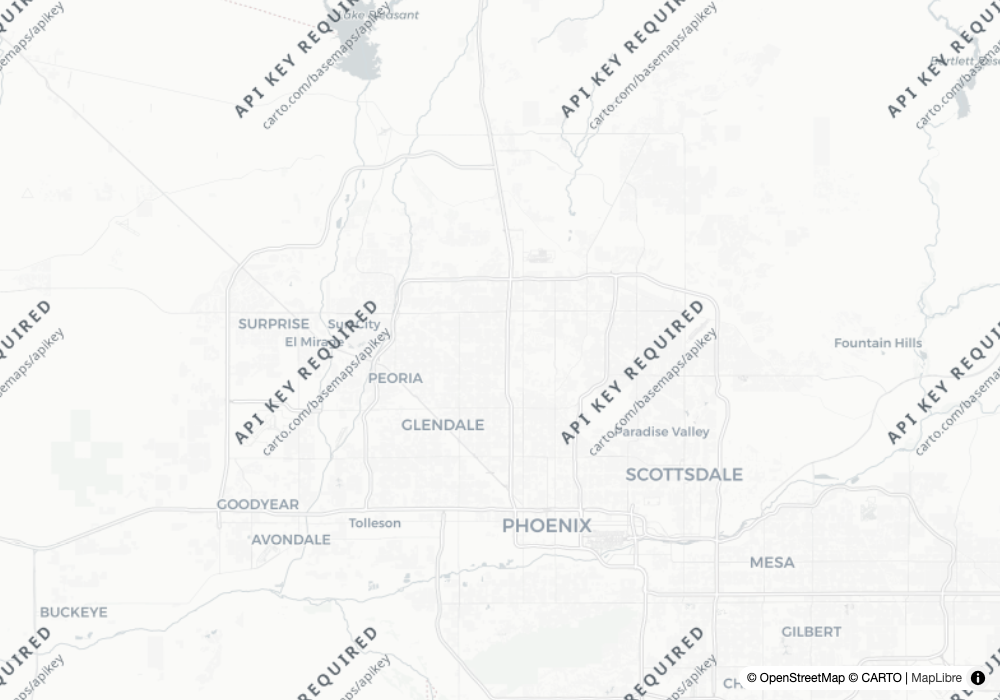
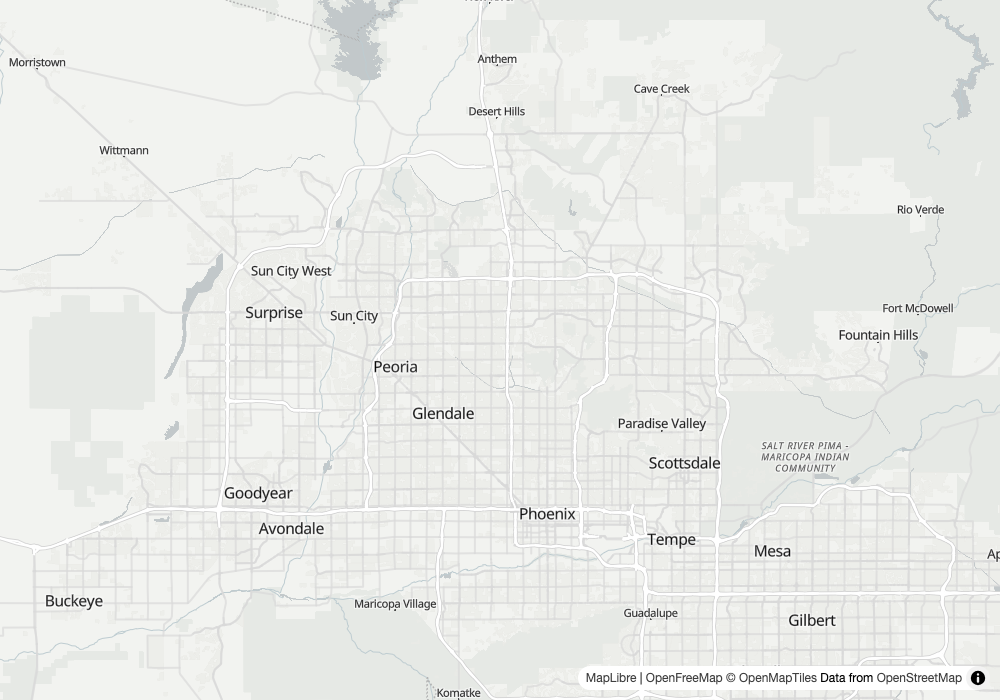
field test No.8: artifacts and stills rebuilt on the key-free basemap
The nineteen artifacts referenced CARTO tiles that now watermark; they reference OpenFreeMap (2D) and OpenStreetMap (3D) instead, and every still is re-shot.

Claude-Session: https://claude.ai/code/session_01Nq2fHRJEhmnNjEufiUrmWm

diff --git a/docs/img/ft8-chelan-coverage-set.html b/docs/img/ft8-chelan-coverage-set.html
@@ -90,10 +90,10 @@
 <script>
 const LAYERS = [{"type": "raster", "name": "2026-08-24 \u00b7 10UFU", "tiles": "https://titiler.xyz/stac/tiles/WebMercatorQuad/{z}/{x}/{y}.png?url=https%3A%2F%2Fearth-search.aws.element84.com%2Fv1%2Fcollections%2Fsentinel-2-l2a%2Fitems%2FS2C_10UFU_20260824_1_L2A&assets=visual", "opacity": 1, "bounds": [-121.665655, 47.731054, -120.164358, 48.673544]}, {"type": "raster", "name": "2026-08-24 \u00b7 10TFT", "tiles": "https://titiler.xyz/stac/tiles/WebMercatorQuad/{z}/{x}/{y}.png?url=https%3A%2F%2Fearth-search.aws.element84.com%2Fv1%2Fcollections%2Fsentinel-2-l2a%2Fitems%2FS2C_10TFT_20260824_0_L2A&assets=visual", "opacity": 1, "bounds": [-121.6881, 46.832638, -120.197167, 47.845912]}, {"type": "raster", "name": "2026-08-24 \u00b7 10UGU", "tiles": "https://titiler.xyz/stac/tiles/WebMercatorQuad/{z}/{x}/{y}.png?url=https%3A%2F%2Fearth-search.aws.element84.com%2Fv1%2Fcollections%2Fsentinel-2-l2a%2Fitems%2FS2C_10UGU_20260824_1_L2A&assets=visual", "opacity": 1, "bounds": [-120.332977, 47.690861, -118.836415, 48.442499]}, {"type": "raster", "name": "2026-08-24 \u00b7 10TGT", "tiles": "https://titiler.xyz/stac/tiles/WebMercatorQuad/{z}/{x}/{y}.png?url=https%3A%2F%2Fearth-search.aws.element84.com%2Fv1%2Fcollections%2Fsentinel-2-l2a%2Fitems%2FS2C_10TGT_20260824_0_L2A&assets=visual", "opacity": 1, "bounds": [-120.377747, 46.803401, -118.864756, 47.822598]}, {"type": "raster", "name": "2026-08-24 \u00b7 10UGU", "tiles": "https://titiler.xyz/stac/tiles/WebMercatorQuad/{z}/{x}/{y}.png?url=https%3A%2F%2Fearth-search.aws.element84.com%2Fv1%2Fcollections%2Fsentinel-2-l2a%2Fitems%2FS2C_10UGU_20260824_0_L2A&assets=visual", "opacity": 1, "bounds": [-120.305306, 47.956173, -118.79173, 48.720918]}];
 const BBOX = [-121.18091, 47.2609433, -119.859708, 48.5509464];
-const BASE_STYLE = () => ({ version: 8, sources: { basemap: { type: "raster",
-    tiles: ["https://basemaps.cartocdn.com/light_all/{z}/{x}/{y}@2x.png"], tileSize: 256,
-    attribution: "&copy; OpenStreetMap &copy; CARTO" } },
-  layers: [{ id: "basemap", type: "raster", source: "basemap" }] });
+// Field test No.8: CARTO's free basemap started serving "API KEY REQUIRED"
+// watermark tiles under every artifact. OpenFreeMap needs no key and its
+// positron style is the same light look; raster layers stack on it unchanged
+const BASE_STYLE = () => "https://tiles.openfreemap.org/styles/positron";
 const MAP_OPTS = { style: BASE_STYLE(), bounds: [[BBOX[0], BBOX[1]], [BBOX[2], BBOX[3]]],
   fitBoundsOptions: { padding: 40 } };
 

diff --git a/docs/img/ft8-chelan-brief-map.html b/docs/img/ft8-chelan-brief-map.html
@@ -90,10 +90,10 @@
 <script>
 const LAYERS = [{"type": "raster", "name": "Sentinel-2 2026-08-24 (0.1% cloud)", "tiles": "https://titiler.xyz/stac/tiles/WebMercatorQuad/{z}/{x}/{y}.png?url=https%3A%2F%2Fearth-search.aws.element84.com%2Fv1%2Fcollections%2Fsentinel-2-l2a%2Fitems%2FS2C_10TFT_20260824_0_L2A&assets=visual", "opacity": 1, "bounds": [-121.6881, 46.832638, -120.197167, 47.845912]}, {"type": "geojson", "name": "Active events (5)", "data": {"type": "FeatureCollection", "features": [{"type": "Feature", "geometry": {"type": "Point", "coordinates": [-121.4353, 48.652417]}, "properties": {"title": "Wildfire Electric, Whatcom, Washington", "description": "Wildfires \u00b7 2026-08-22"}}, {"type": "Feature", "geometry": {"type": "Point", "coordinates": [-121.052783, 47.458917]}, "properties": {"title": "Wildfire GOAT, Kittitas, Washington", "description": "Wildfires \u00b7 2026-08-22"}}, {"type": "Feature", "geometry": {"type": "Point", "coordinates": [-121.0287, 48.549617]}, "properties": {"title": "Wildfire Thunder Creek, Skagit, Washington", "description": "Wildfires \u00b7 2026-08-22"}}, {"type": "Feature", "geometry": {"type": "Point", "coordinates": [-121.255867, 47.4708]}, "properties": {"title": "Wildfire KING, Kittitas, Washington", "description": "Wildfires \u00b7 2026-08-19"}}, {"type": "Feature", "geometry": {"type": "Point", "coordinates": [-120.830667, 48.346667]}, "properties": {"title": "Wildfire SISI, Chelan, Washington", "description": "Wildfires \u00b7 2026-08-14"}}]}, "color": "#d63b3b"}];
 const BBOX = [-121.58091, 46.8609433, -119.45970799999999, 48.9509464];
-const BASE_STYLE = () => ({ version: 8, sources: { basemap: { type: "raster",
-    tiles: ["https://basemaps.cartocdn.com/light_all/{z}/{x}/{y}@2x.png"], tileSize: 256,
-    attribution: "&copy; OpenStreetMap &copy; CARTO" } },
-  layers: [{ id: "basemap", type: "raster", source: "basemap" }] });
+// Field test No.8: CARTO's free basemap started serving "API KEY REQUIRED"
+// watermark tiles under every artifact. OpenFreeMap needs no key and its
+// positron style is the same light look; raster layers stack on it unchanged
+const BASE_STYLE = () => "https://tiles.openfreemap.org/styles/positron";
 const MAP_OPTS = { style: BASE_STYLE(), bounds: [[BBOX[0], BBOX[1]], [BBOX[2], BBOX[3]]],
   fitBoundsOptions: { padding: 40 } };
 

diff --git a/docs/img/ft8-rainier-3d.html b/docs/img/ft8-rainier-3d.html
@@ -121,7 +121,7 @@
 </script>
 
 <script>
-const STYLE = {"version": 8, "sources": {"basemap": {"type": "raster", "tiles": ["https://basemaps.cartocdn.com/light_all/{z}/{x}/{y}@2x.png"], "tileSize": 256, "attribution": "&copy; OpenStreetMap &copy; CARTO"}, "imagery": {"type": "raster", "tiles": ["https://titiler.xyz/stac/tiles/WebMercatorQuad/{z}/{x}/{y}.png?url=https%3A%2F%2Fearth-search.aws.element84.com%2Fv1%2Fcollections%2Fsentinel-2-l2a%2Fitems%2FS2C_10TES_20260824_0_L2A&assets=visual"], "tileSize": 256, "bounds": [-123.00025, 45.956779, -121.557505, 46.9537]}, "dem": {"type": "raster-dem", "tiles": ["https://s3.amazonaws.com/elevation-tiles-prod/terrarium/{z}/{x}/{y}.png"], "tileSize": 256, "encoding": "terrarium", "maxzoom": 15}}, "layers": [{"id": "basemap", "type": "raster", "source": "basemap"}, {"id": "imagery", "type": "raster", "source": "imagery", "paint": {"raster-opacity": 1}}]};
+const STYLE = {"version": 8, "sources": {"basemap": {"type": "raster", "tiles": ["https://tile.openstreetmap.org/{z}/{x}/{y}.png"], "tileSize": 256, "attribution": "&copy; OpenStreetMap contributors"}, "imagery": {"type": "raster", "tiles": ["https://titiler.xyz/stac/tiles/WebMercatorQuad/{z}/{x}/{y}.png?url=https%3A%2F%2Fearth-search.aws.element84.com%2Fv1%2Fcollections%2Fsentinel-2-l2a%2Fitems%2FS2C_10TES_20260824_0_L2A&assets=visual"], "tileSize": 256, "bounds": [-123.00025, 45.956779, -121.557505, 46.9537]}, "dem": {"type": "raster-dem", "tiles": ["https://s3.amazonaws.com/elevation-tiles-prod/terrarium/{z}/{x}/{y}.png"], "tileSize": 256, "encoding": "terrarium", "maxzoom": 15}}, "layers": [{"id": "basemap", "type": "raster", "source": "basemap"}, {"id": "imagery", "type": "raster", "source": "imagery", "paint": {"raster-opacity": 1}}]};
 const BBOX = [-121.9075158, 46.7022029, -121.60751579999999, 47.0022029];
 const CENTER = [(BBOX[0] + BBOX[2]) / 2, (BBOX[1] + BBOX[3]) / 2];
 const BOUNDS = [[BBOX[0], BBOX[1]], [BBOX[2], BBOX[3]]];

diff --git a/docs/img/ft8-caldor-severity.html b/docs/img/ft8-caldor-severity.html
@@ -90,10 +90,10 @@
 <script>
 const LAYERS = [{"type": "raster", "name": "2026-08-31 \u00b7 10SGH", "tiles": "https://titiler.xyz/stac/tiles/WebMercatorQuad/{z}/{x}/{y}.png?url=https%3A%2F%2Fearth-search.aws.element84.com%2Fv1%2Fcollections%2Fsentinel-2-l2a%2Fitems%2FS2C_10SGH_20260831_0_L2A&assets=visual", "opacity": 1, "bounds": [-120.727597, 37.824548, -119.760991, 38.826272]}, {"type": "raster", "name": "2026-08-31 \u00b7 10SGJ", "tiles": "https://titiler.xyz/stac/tiles/WebMercatorQuad/{z}/{x}/{y}.png?url=https%3A%2F%2Fearth-search.aws.element84.com%2Fv1%2Fcollections%2Fsentinel-2-l2a%2Fitems%2FS2C_10SGJ_20260831_0_L2A&assets=visual", "opacity": 1, "bounds": [-120.699322, 38.717793, -119.451708, 39.726806]}, {"type": "raster", "name": "Caldor burn severity 2021 (VEDA)", "tiles": "https://openveda.cloud/api/raster/collections/caldor-fire-burn-severity/items/bs_to_save/tiles/WebMercatorQuad/{z}/{x}/{y}.png?assets=cog_default&rescale=1%2C4&colormap_name=inferno_r", "opacity": 0.75, "bounds": [-120.61338752166166, 38.54940283865057, -119.91905658168675, 38.90577651328637]}];
 const BBOX = [-120.61338752166166, 38.54940283865057, -119.91905658168675, 38.90577651328637];
-const BASE_STYLE = () => ({ version: 8, sources: { basemap: { type: "raster",
-    tiles: ["https://basemaps.cartocdn.com/light_all/{z}/{x}/{y}@2x.png"], tileSize: 256,
-    attribution: "&copy; OpenStreetMap &copy; CARTO" } },
-  layers: [{ id: "basemap", type: "raster", source: "basemap" }] });
+// Field test No.8: CARTO's free basemap started serving "API KEY REQUIRED"
+// watermark tiles under every artifact. OpenFreeMap needs no key and its
+// positron style is the same light look; raster layers stack on it unchanged
+const BASE_STYLE = () => "https://tiles.openfreemap.org/styles/positron";
 const MAP_OPTS = { style: BASE_STYLE(), bounds: [[BBOX[0], BBOX[1]], [BBOX[2], BBOX[3]]],
   fitBoundsOptions: { padding: 40 } };
 

diff --git a/docs/img/ft8-cambodia-sar-swipe.html b/docs/img/ft8-cambodia-sar-swipe.html
@@ -90,10 +90,10 @@
 <script>
 const LAYERS = [{"type": "raster", "name": "after 2026-08-29 (ascending)", "tiles": "https://titiler.xyz/stac/tiles/WebMercatorQuad/{z}/{x}/{y}.png?url=https%3A%2F%2Fearth-search.aws.element84.com%2Fv1%2Fcollections%2Fsentinel-1-grd%2Fitems%2FS1D_IW_GRDH_1SDV_20260829T111939_20260829T112004_004340_008021&assets=vv&rescale=128%2C328", "opacity": 1, "bounds": [101.6356271, 11.5112874, 104.2095048, 13.4619501]}, {"type": "raster", "name": "before 2026-06-30 (ascending)", "tiles": "https://titiler.xyz/stac/tiles/WebMercatorQuad/{z}/{x}/{y}.png?url=https%3A%2F%2Fearth-search.aws.element84.com%2Fv1%2Fcollections%2Fsentinel-1-grd%2Fitems%2FS1D_IW_GRDH_1SDV_20260630T111936_20260630T112001_003465_0061EE&assets=vv&rescale=128%2C328", "opacity": 1, "bounds": [101.6352563, 11.5104643, 104.2093813, 13.4615807]}, {"type": "geojson", "name": "GDACS flood", "data": {"type": "FeatureCollection", "features": [{"type": "Feature", "geometry": {"type": "Point", "coordinates": [103.1983, 13.09]}, "properties": {"title": "Flood in Cambodia"}}]}}];
 const BBOX = [102.6983, 12.69, 103.6983, 13.49];
-const BASE_STYLE = () => ({ version: 8, sources: { basemap: { type: "raster",
-    tiles: ["https://basemaps.cartocdn.com/light_all/{z}/{x}/{y}@2x.png"], tileSize: 256,
-    attribution: "&copy; OpenStreetMap &copy; CARTO" } },
-  layers: [{ id: "basemap", type: "raster", source: "basemap" }] });
+// Field test No.8: CARTO's free basemap started serving "API KEY REQUIRED"
+// watermark tiles under every artifact. OpenFreeMap needs no key and its
+// positron style is the same light look; raster layers stack on it unchanged
+const BASE_STYLE = () => "https://tiles.openfreemap.org/styles/positron";
 const MAP_OPTS = { style: BASE_STYLE(), bounds: [[BBOX[0], BBOX[1]], [BBOX[2], BBOX[3]]],
   fitBoundsOptions: { padding: 40 } };
 

diff --git a/docs/img/ft8-lake-mead-ndwi.html b/docs/img/ft8-lake-mead-ndwi.html
@@ -90,10 +90,10 @@
 <script>
 const LAYERS = [{"type": "raster", "name": "2026-07-25 (after)", "tiles": "https://titiler.xyz/stac/tiles/WebMercatorQuad/{z}/{x}/{y}.png?url=https%3A%2F%2Fearth-search.aws.element84.com%2Fv1%2Fcollections%2Fsentinel-2-l2a%2Fitems%2FS2B_11SQA_20260725_0_L2A&expression=%28b1-b2%29%2F%28b1%2Bb2%29&assets=green&assets=nir&rescale=-1%2C1&colormap_name=rdylgn", "opacity": 1, "bounds": [-113.964788, 36.00746, -113.519426, 37.000366]}, {"type": "raster", "name": "2025-07-30 (before)", "tiles": "https://titiler.xyz/stac/tiles/WebMercatorQuad/{z}/{x}/{y}.png?url=https%3A%2F%2Fearth-search.aws.element84.com%2Fv1%2Fcollections%2Fsentinel-2-l2a%2Fitems%2FS2B_11SQA_20250730_0_L2A&expression=%28b1-b2%29%2F%28b1%2Bb2%29&assets=green&assets=nir&rescale=-1%2C1&colormap_name=rdylgn", "opacity": 1, "bounds": [-113.951489, 36.00746, -113.519426, 37.000023]}];
 const BBOX = [-114.85867066394715, 35.830704060793124, -113.63161379999879, 36.589574780538555];
-const BASE_STYLE = () => ({ version: 8, sources: { basemap: { type: "raster",
-    tiles: ["https://basemaps.cartocdn.com/light_all/{z}/{x}/{y}@2x.png"], tileSize: 256,
-    attribution: "&copy; OpenStreetMap &copy; CARTO" } },
-  layers: [{ id: "basemap", type: "raster", source: "basemap" }] });
+// Field test No.8: CARTO's free basemap started serving "API KEY REQUIRED"
+// watermark tiles under every artifact. OpenFreeMap needs no key and its
+// positron style is the same light look; raster layers stack on it unchanged
+const BASE_STYLE = () => "https://tiles.openfreemap.org/styles/positron";
 const MAP_OPTS = { style: BASE_STYLE(), bounds: [[BBOX[0], BBOX[1]], [BBOX[2], BBOX[3]]],
   fitBoundsOptions: { padding: 40 } };
 

diff --git a/docs/img/ft8-barotse-ndwi.html b/docs/img/ft8-barotse-ndwi.html
@@ -90,10 +90,10 @@
 <script>
 const LAYERS = [{"type": "raster", "name": "2026-08-27 (after)", "tiles": "https://titiler.xyz/stac/tiles/WebMercatorQuad/{z}/{x}/{y}.png?url=https%3A%2F%2Fearth-search.aws.element84.com%2Fv1%2Fcollections%2Fsentinel-2-l2a%2Fitems%2FS2A_34LGJ_20260827_1_L2A&expression=%28b1-b2%29%2F%28b1%2Bb2%29&assets=green&assets=nir&rescale=-1%2C1&colormap_name=rdylgn", "opacity": 1, "bounds": [22.855155, -15.45717, 23.105677, -14.462875]}, {"type": "raster", "name": "2026-06-28 (before)", "tiles": "https://titiler.xyz/stac/tiles/WebMercatorQuad/{z}/{x}/{y}.png?url=https%3A%2F%2Fearth-search.aws.element84.com%2Fv1%2Fcollections%2Fsentinel-2-l2a%2Fitems%2FS2B_34LGJ_20260628_0_L2A&expression=%28b1-b2%29%2F%28b1%2Bb2%29&assets=green&assets=nir&rescale=-1%2C1&colormap_name=rdylgn", "opacity": 1, "bounds": [22.855155, -15.45717, 23.886298, -14.454758]}];
 const BBOX = [22.6784894, -16.3621477, 23.3540744, -14.2888762];
-const BASE_STYLE = () => ({ version: 8, sources: { basemap: { type: "raster",
-    tiles: ["https://basemaps.cartocdn.com/light_all/{z}/{x}/{y}@2x.png"], tileSize: 256,
-    attribution: "&copy; OpenStreetMap &copy; CARTO" } },
-  layers: [{ id: "basemap", type: "raster", source: "basemap" }] });
+// Field test No.8: CARTO's free basemap started serving "API KEY REQUIRED"
+// watermark tiles under every artifact. OpenFreeMap needs no key and its
+// positron style is the same light look; raster layers stack on it unchanged
+const BASE_STYLE = () => "https://tiles.openfreemap.org/styles/positron";
 const MAP_OPTS = { style: BASE_STYLE(), bounds: [[BBOX[0], BBOX[1]], [BBOX[2], BBOX[3]]],
   fitBoundsOptions: { padding: 40 } };
 

diff --git a/docs/img/ft8-harris-s1-edouard.html b/docs/img/ft8-harris-s1-edouard.html
@@ -90,10 +90,10 @@
 <script>
 const LAYERS = [{"type": "raster", "name": "S1 2026-09-01 (descending)", "tiles": "https://titiler.xyz/stac/tiles/WebMercatorQuad/{z}/{x}/{y}.png?url=https%3A%2F%2Fearth-search.aws.element84.com%2Fv1%2Fcollections%2Fsentinel-1-grd%2Fitems%2FS1D_IW_GRDH_1SDV_20260901T122224_20260901T122253_004384_0081A7&assets=vv&rescale=0%2C300", "opacity": 1, "bounds": [-97.4542478, 28.9663837, -94.5157795, 30.9198203]}, {"type": "geojson", "name": "storm positions (EONET + GDACS)", "data": {"type": "FeatureCollection", "features": [{"type": "Feature", "geometry": {"type": "Point", "coordinates": [-95, 30.8]}, "properties": {"title": "Tropical Storm Edouard"}}, {"type": "Feature", "geometry": {"type": "Point", "coordinates": [-95.2, 31.6]}, "properties": {"title": "Tropical Cyclone EDOUARD-26"}}]}}];
 const BBOX = [-95.9608455, 29.497339, -94.9084924, 30.1706958];
-const BASE_STYLE = () => ({ version: 8, sources: { basemap: { type: "raster",
-    tiles: ["https://basemaps.cartocdn.com/light_all/{z}/{x}/{y}@2x.png"], tileSize: 256,
-    attribution: "&copy; OpenStreetMap &copy; CARTO" } },
-  layers: [{ id: "basemap", type: "raster", source: "basemap" }] });
+// Field test No.8: CARTO's free basemap started serving "API KEY REQUIRED"
+// watermark tiles under every artifact. OpenFreeMap needs no key and its
+// positron style is the same light look; raster layers stack on it unchanged
+const BASE_STYLE = () => "https://tiles.openfreemap.org/styles/positron";
 const MAP_OPTS = { style: BASE_STYLE(), bounds: [[BBOX[0], BBOX[1]], [BBOX[2], BBOX[3]]],
   fitBoundsOptions: { padding: 40 } };
 

diff --git a/docs/img/ft8-calgary-coverage-set.html b/docs/img/ft8-calgary-coverage-set.html
@@ -90,10 +90,10 @@
 <script>
 const LAYERS = [{"type": "raster", "name": "2026-08-28 \u00b7 11UPS", "tiles": "https://titiler.xyz/stac/tiles/WebMercatorQuad/{z}/{x}/{y}.png?url=https%3A%2F%2Fearth-search.aws.element84.com%2Fv1%2Fcollections%2Fsentinel-2-l2a%2Fitems%2FS2C_11UPS_20260828_0_L2A&assets=visual", "opacity": 1, "bounds": [-115.591271, 50.426303, -113.98299, 51.442343]}, {"type": "raster", "name": "2026-08-28 \u00b7 11UQS", "tiles": "https://titiler.xyz/stac/tiles/WebMercatorQuad/{z}/{x}/{y}.png?url=https%3A%2F%2Fearth-search.aws.element84.com%2Fv1%2Fcollections%2Fsentinel-2-l2a%2Fitems%2FS2C_11UQS_20260828_0_L2A&assets=visual", "opacity": 1, "bounds": [-114.184475, 50.382132, -112.549425, 51.415888]}];
 const BBOX = [-114.3157587, 50.842526, -113.8600018, 51.2125013];
-const BASE_STYLE = () => ({ version: 8, sources: { basemap: { type: "raster",
-    tiles: ["https://basemaps.cartocdn.com/light_all/{z}/{x}/{y}@2x.png"], tileSize: 256,
-    attribution: "&copy; OpenStreetMap &copy; CARTO" } },
-  layers: [{ id: "basemap", type: "raster", source: "basemap" }] });
+// Field test No.8: CARTO's free basemap started serving "API KEY REQUIRED"
+// watermark tiles under every artifact. OpenFreeMap needs no key and its
+// positron style is the same light look; raster layers stack on it unchanged
+const BASE_STYLE = () => "https://tiles.openfreemap.org/styles/positron";
 const MAP_OPTS = { style: BASE_STYLE(), bounds: [[BBOX[0], BBOX[1]], [BBOX[2], BBOX[3]]],
   fitBoundsOptions: { padding: 40 } };
 

diff --git a/docs/img/ft8-monterey-plaskett.html b/docs/img/ft8-monterey-plaskett.html
@@ -90,10 +90,10 @@
 <script>
 const LAYERS = [{"type": "raster", "name": "S2B_10SFF_20260826_0_L2A", "tiles": "https://titiler.xyz/stac/tiles/WebMercatorQuad/{z}/{x}/{y}.png?url=https%3A%2F%2Fearth-search.aws.element84.com%2Fv1%2Fcollections%2Fsentinel-2-l2a%2Fitems%2FS2B_10SFF_20260826_0_L2A&assets=visual", "opacity": 1, "bounds": [-121.889736, 36.035242, -120.642667, 37.041245]}, {"type": "geojson", "name": "EONET wildfires (14d)", "data": {"type": "FeatureCollection", "features": [{"type": "Feature", "geometry": {"type": "Point", "coordinates": [-121.4125, 35.905667]}, "properties": {"title": "Wildfire Plaskett, Monterey, California"}}]}}];
 const BBOX = [-121.978655, 35.7890391, -120.2139463, 36.9193564];
-const BASE_STYLE = () => ({ version: 8, sources: { basemap: { type: "raster",
-    tiles: ["https://basemaps.cartocdn.com/light_all/{z}/{x}/{y}@2x.png"], tileSize: 256,
-    attribution: "&copy; OpenStreetMap &copy; CARTO" } },
-  layers: [{ id: "basemap", type: "raster", source: "basemap" }] });
+// Field test No.8: CARTO's free basemap started serving "API KEY REQUIRED"
+// watermark tiles under every artifact. OpenFreeMap needs no key and its
+// positron style is the same light look; raster layers stack on it unchanged
+const BASE_STYLE = () => "https://tiles.openfreemap.org/styles/positron";
 const MAP_OPTS = { style: BASE_STYLE(), bounds: [[BBOX[0], BBOX[1]], [BBOX[2], BBOX[3]]],
   fitBoundsOptions: { padding: 40 } };
 

diff --git a/docs/img/ft8-ashburn-naip.html b/docs/img/ft8-ashburn-naip.html
@@ -90,10 +90,10 @@
 <script>
 const LAYERS = [{"type": "raster", "name": "NAIP va_m_3907761_sw_18_060_20231011_20240103", "tiles": "https://planetarycomputer.microsoft.com/api/data/v1/mosaic/1556ae0cea006196941e433717096c0c/tiles/WebMercatorQuad/{z}/{x}/{y}@1x.png?collection=naip&assets=image", "opacity": 1, "bounds": [-77.504555, 38.9968, -77.432952, 39.06568]}, {"type": "raster", "name": "ESA WorldCover 2021", "tiles": "https://planetarycomputer.microsoft.com/api/data/v1/mosaic/47411abd5f043a2f19d6d7615ec4653f/tiles/WebMercatorQuad/{z}/{x}/{y}@1x.png?collection=esa-worldcover&assets=map", "opacity": 0.6, "bounds": [-78.0, 39.0, -75.0, 42.0]}];
 const BBOX = [-77.52292, 38.988151, -77.43125, 39.071446];
-const BASE_STYLE = () => ({ version: 8, sources: { basemap: { type: "raster",
-    tiles: ["https://basemaps.cartocdn.com/light_all/{z}/{x}/{y}@2x.png"], tileSize: 256,
-    attribution: "&copy; OpenStreetMap &copy; CARTO" } },
-  layers: [{ id: "basemap", type: "raster", source: "basemap" }] });
+// Field test No.8: CARTO's free basemap started serving "API KEY REQUIRED"
+// watermark tiles under every artifact. OpenFreeMap needs no key and its
+// positron style is the same light look; raster layers stack on it unchanged
+const BASE_STYLE = () => "https://tiles.openfreemap.org/styles/positron";
 const MAP_OPTS = { style: BASE_STYLE(), bounds: [[BBOX[0], BBOX[1]], [BBOX[2], BBOX[3]]],
   fitBoundsOptions: { padding: 40 } };
 

diff --git a/docs/img/ft8-phoenix-lst.html b/docs/img/ft8-phoenix-lst.html
@@ -90,10 +90,10 @@
 <script>
 const LAYERS = [{"type": "raster", "name": "LST \u00b0C LC09_L2SP_037037_20260817_02_T1", "tiles": "https://planetarycomputer.microsoft.com/api/data/v1/mosaic/391002d7af89d0d6be31f3dcf053519b/tiles/WebMercatorQuad/{z}/{x}/{y}@1x.png?collection=landsat-c2-l2&rescale=25%2C60&colormap_name=inferno", "opacity": 1, "bounds": [-113.80929890253537, 32.08533479927767, -111.27862720773734, 34.24731520072233]}];
 const BBOX = [-112.3240289, 33.2904827, -111.9255304, 33.9183794];
-const BASE_STYLE = () => ({ version: 8, sources: { basemap: { type: "raster",
-    tiles: ["https://basemaps.cartocdn.com/light_all/{z}/{x}/{y}@2x.png"], tileSize: 256,
-    attribution: "&copy; OpenStreetMap &copy; CARTO" } },
-  layers: [{ id: "basemap", type: "raster", source: "basemap" }] });
+// Field test No.8: CARTO's free basemap started serving "API KEY REQUIRED"
+// watermark tiles under every artifact. OpenFreeMap needs no key and its
+// positron style is the same light look; raster layers stack on it unchanged
+const BASE_STYLE = () => "https://tiles.openfreemap.org/styles/positron";
 const MAP_OPTS = { style: BASE_STYLE(), bounds: [[BBOX[0], BBOX[1]], [BBOX[2], BBOX[3]]],
   fitBoundsOptions: { padding: 40 } };
 
